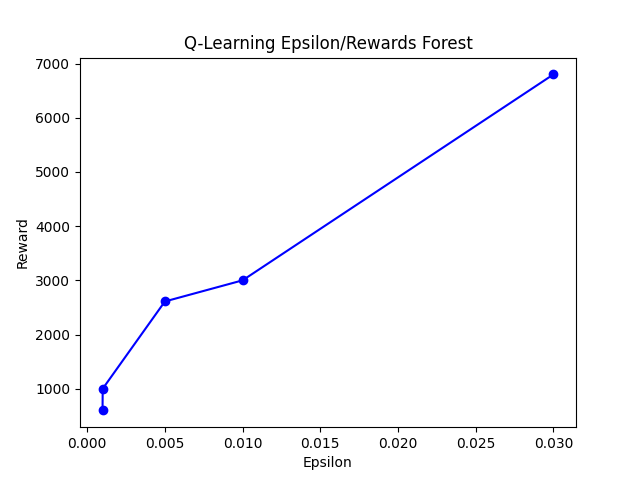
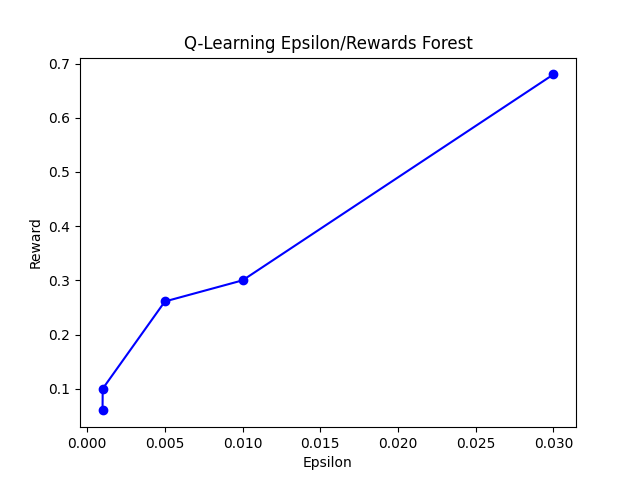
update figs

diff --git a/mdps/q_other.py b/mdps/q_other.py
@@ -80,3 +80,19 @@ plot_rewards(
     alpha, results, 'Q-Learning Alpha/Rewards FrozenLake',
     'q_learning_alpha_rewards_frozenlake', 'Alpha'
 )
+
+print('----------------Best QL FrozenLake---------------')
+ql = QLearning(
+        P, # transitions
+        R, # rewards
+        0.55, # discount
+        alpha=0.9, alpha_decay=0.99, alpha_min=0.001,
+        epsilon=0.5, epsilon_min=0.1, epsilon_decay=0.99,
+        n_iter=10000, skip_check=False, iter_callback=None,
+        run_stat_frequency=None
+    )
+ql.run()
+# print('q learning Q matrix:', ql.Q)
+print('q learning value function:', ql.V)
+# print('q learning mean discrepancy:', ql.mean_discrepancy)
+print('q learning best policy:', ql.policy)

diff --git a/mdps/q_forest.py b/mdps/q_forest.py
@@ -84,3 +84,19 @@ plot_rewards(
     alpha, results, 'Q-Learning Alpha/Rewards Forest',
     'q_learning_alpha_rewards_forest', 'Alpha'
 )
+
+print('----------------Best QL Forest---------------')
+ql = QLearning(
+        P, # transitions
+        R, # rewards
+        0.7, # discount
+        alpha=0.01, alpha_decay=0.99, alpha_min=0.001,
+        epsilon=0.5, epsilon_min=0.1, epsilon_decay=0.99,
+        n_iter=10000, skip_check=False, iter_callback=None,
+        run_stat_frequency=None
+    )
+ql.run()
+# print('q learning Q matrix:', ql.Q)
+print('q learning value function:', ql.V)
+# print('q learning mean discrepancy:', ql.mean_discrepancy)
+print('q learning best policy:', ql.policy)

diff --git a/mdps/policy_forest.py b/mdps/policy_forest.py
@@ -54,3 +54,18 @@ plot_rewards(
     ep, results, 'Policy Iteration Epsilon/Rewards Forest',
     'policy_iteration_epsilon_rewards_forest', 'Epsilon'
 )
+
+print('----------------Best PI Forest---------------')
+pi = PolicyIteration(
+    # pi = PolicyIterationModified(
+        P, # transitions
+        R, # rewards
+        0.9, # discount
+        # epsilon=e,
+        max_iter=1000,
+    )
+pi.run()
+print('policy iteration value function:', pi.V)
+print('policy iteration iterations:', pi.iter)
+print('policy iteration time:', pi.time)
+print('policy iteration best policy:', pi.policy)

diff --git a/mdps/policy_other.py b/mdps/policy_other.py
@@ -52,3 +52,17 @@ plot_rewards(
     ep, results, 'Policy Iteration Epsilon/Rewards FrozenLake',
     'policy_iteration_epsilon_rewards_frozenlake', 'Epsilon'
 )
+
+print('----------------Best PI FrozenLake---------------')
+pi = PolicyIteration(
+    # pi = PolicyIterationModified(
+        P, # transitions
+        R, # rewards
+        0.9, # discount
+        max_iter=1000,
+    )
+pi.run()
+print('policy iteration value function:', pi.V)
+print('policy iteration iterations:', pi.iter)
+print('policy iteration time:', pi.time)
+print('policy iteration best policy:', pi.policy)

diff --git a/mdps/value_other.py b/mdps/value_other.py
@@ -50,3 +50,17 @@ plot_rewards(
     ep, results, 'Value Iteration Epsilon/Rewards FrozenLake',
     'value_iteration_epsilon_rewards_frozenlake', 'Epsilon'
 )
+
+print('----------------Best VI FrozenLake---------------')
+vi = ValueIteration(
+        P,
+        R,
+        0.9,
+        epsilon=0.001,
+        max_iter=1000
+    )
+vi.run()
+print('value iteration value function:', vi.V)
+print('value iteration iterations:', vi.iter)
+print('value iteration time:', vi.time)
+print('value iteration best policy:', vi.policy)

diff --git a/mdps/value_forest.py b/mdps/value_forest.py
@@ -53,3 +53,17 @@ plot_rewards(
     ep, results, 'Value Iteration Epsilon/Rewards Forest',
     'value_iteration_epsilon_rewards_forest', 'Epsilon'
 )
+
+print('----------------Best VI Forest---------------')
+vi = ValueIteration(
+        P,
+        R,
+        0.9,
+        epsilon=0.001,
+        max_iter=1000
+    )
+vi.run()
+print('value iteration value function:', vi.V)
+print('value iteration iterations:', vi.iter)
+print('value iteration time:', vi.time)
+print('value iteration best policy:', vi.policy)

diff --git a/helpers/plot_graphs.py b/helpers/plot_graphs.py
@@ -22,8 +22,8 @@ def plot_rewards(x_data, res, title, name, x_axis):
         indvdl_reward = 0
         for d in r.run_stats:
             indvdl_reward += d['Reward']
-
-        rewards.append(indvdl_reward)
+        avg = indvdl_reward/r.run_stats[-1]['Iteration']
+        rewards.append(avg)
 
     plt.plot(x_data, rewards, '-b', marker='o')
     plt.title(title)
